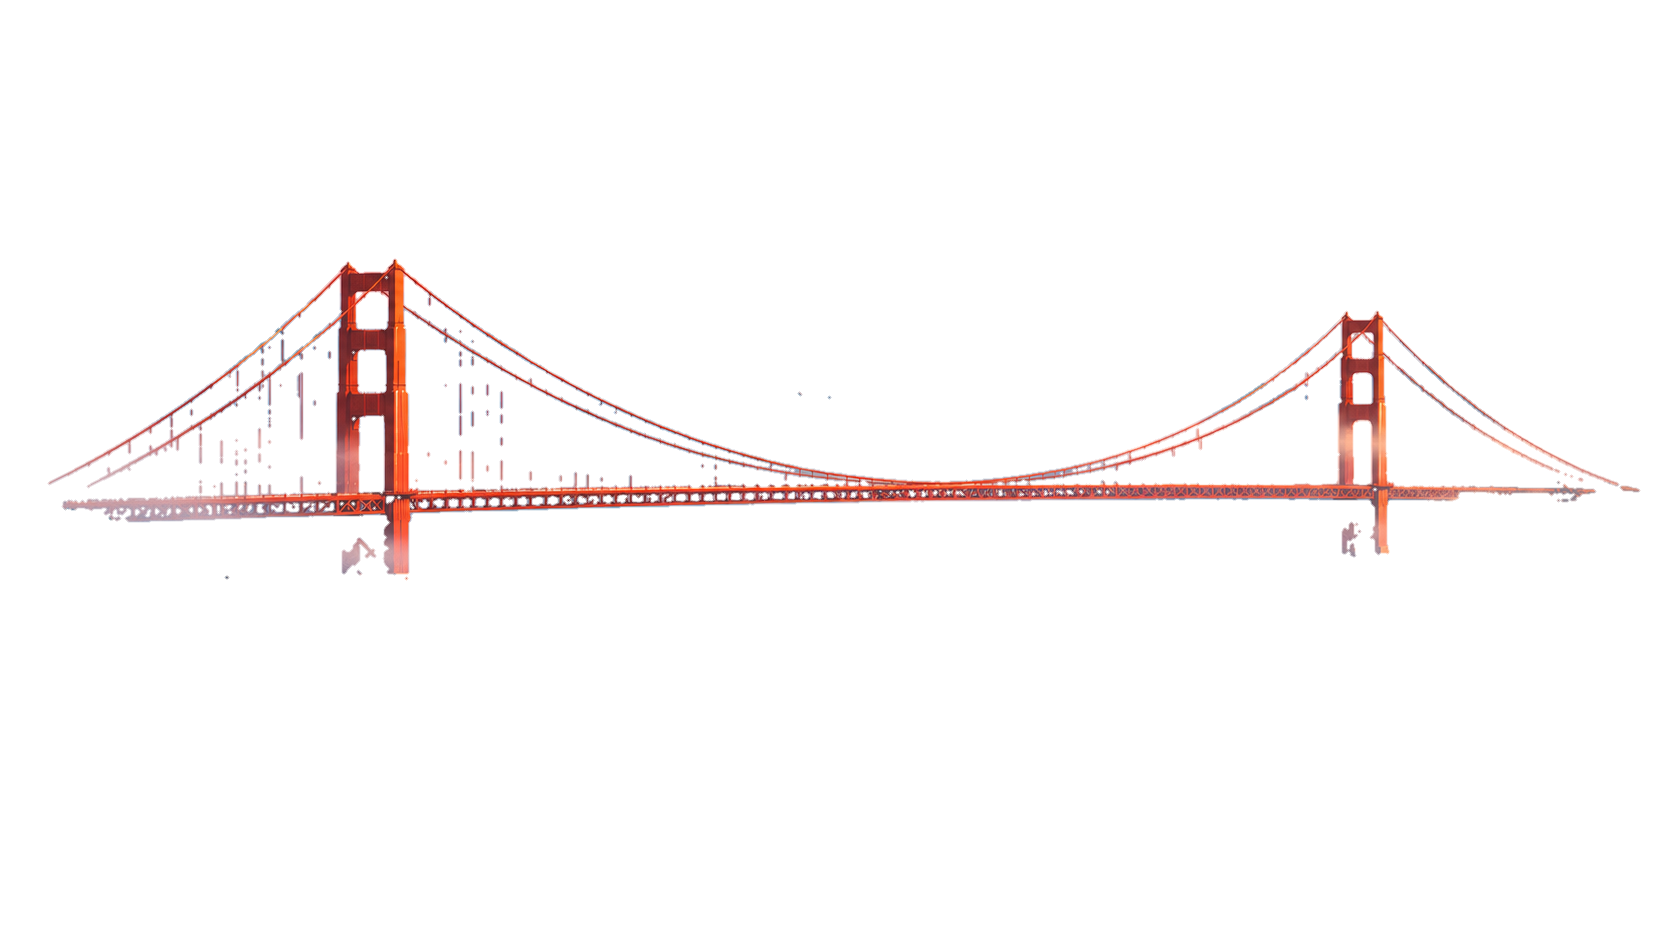
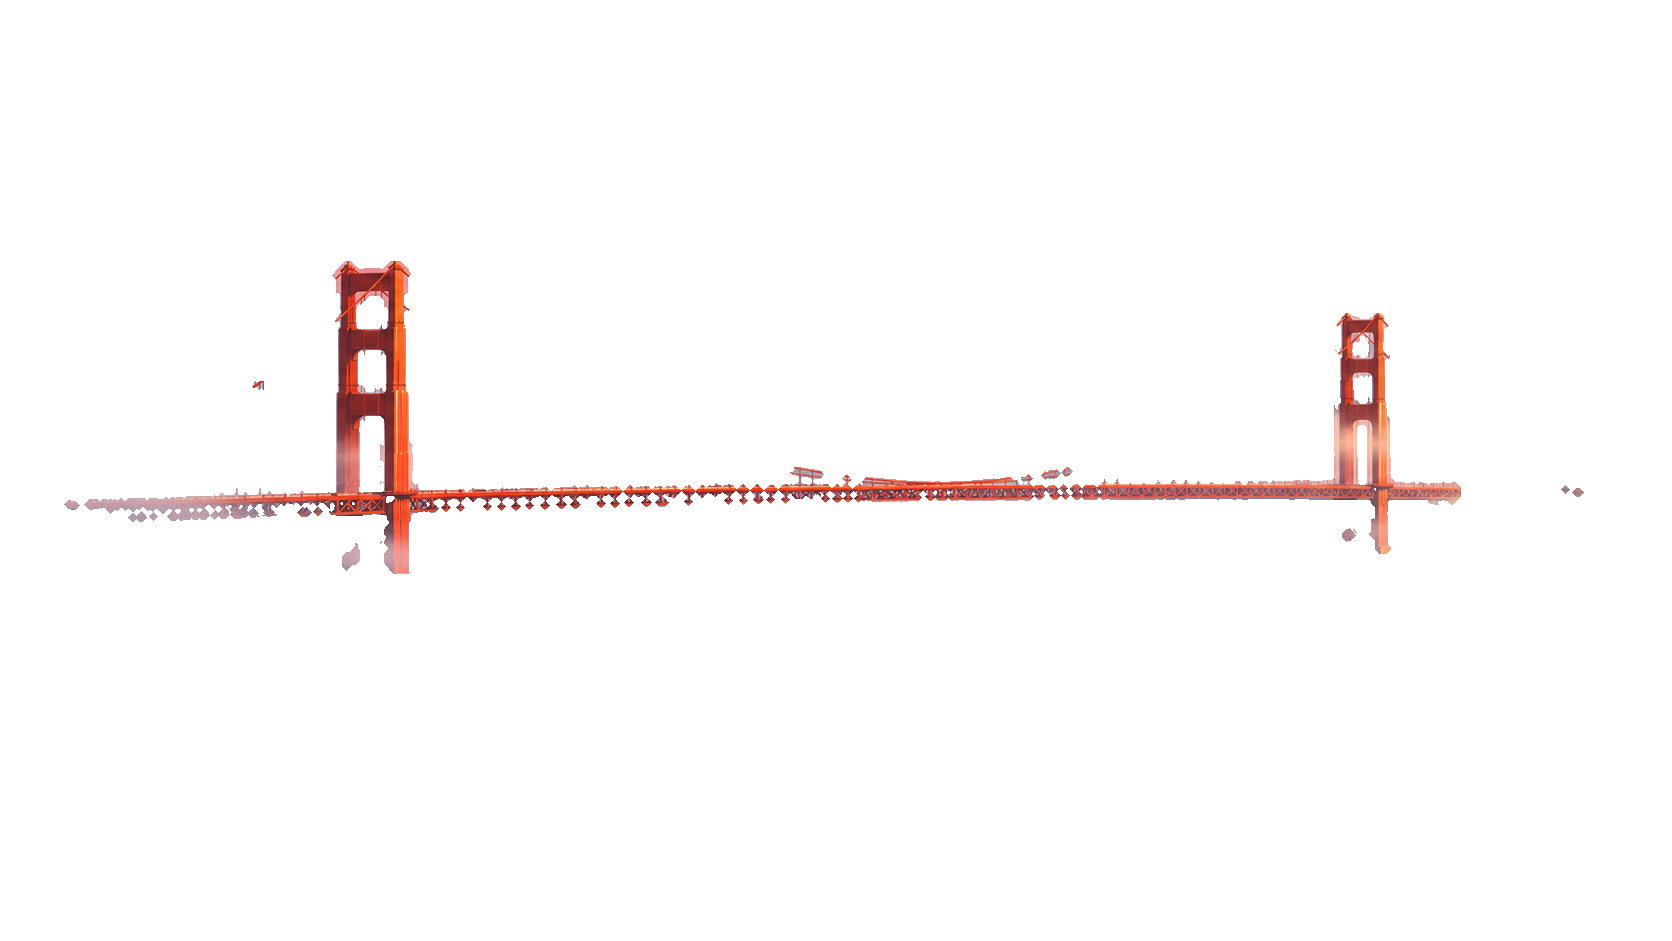
hero + chapters (local only, not pushed)
- Hero cut-out redone: tower-only occluder with solid steel (shaded faces and crossbeams included, fog/sky excluded) and no cables slicing the letters, built for golden/day/night with Blender numpy; originals kept as bridge_fg_full*; see-through text copy retired (poster-lab v=21)
- Night: birds drawn in pale moonlit silver (were invisible), ferry wake a faint cool trail (was pale blobs)
- Cloud pass between hero and chapters removed (owner: 'take out the frost')
- Films and living loops cache-busted (?v=13) so edits always show

diff --git a/index.html b/index.html
@@ -5261,7 +5261,7 @@ html:not([data-theme="dark"]) .dna2-tile:hover .dna2-tile-nm,
       .hero .hero-building:hover svg{transform:translate(2px,-2px)}
       @media (max-width:767px){ .hero .hero-building{top:16vh;font-size:10px;letter-spacing:.08em} }
     </style>
-    <iframe class="hero-city" id="heroCity" src="poster-lab.html?embed&amp;v=20" title="Animated painting of the Golden Gate at golden hour" aria-hidden="true"
+    <iframe class="hero-city" id="heroCity" src="poster-lab.html?embed&amp;v=21" title="Animated painting of the Golden Gate at golden hour" aria-hidden="true"
             tabindex="-1" loading="eager"></iframe>
     <style>
       .hero .hero-city{position:absolute;inset:0;width:100%;height:100%;border:0;pointer-events:none;z-index:0;background:#0A1430}
@@ -5757,16 +5757,23 @@ html:not([data-theme="dark"]) .dna2-tile:hover .dna2-tile-nm,
   <section id="chapters" class="chp-wrap" aria-labelledby="chpTitle">
     <button type="button" class="chp-pause" id="motionToggle" aria-pressed="false">Pause motion</button>
     <h2 class="sr-only" id="chpTitle">Selected work</h2>
+    <!-- (12 Nov, owner) cloud pass from the hero into the first chapter: the bank rises over the hero's foot, you pass through,
+         it parts sideways onto the scene. Short, no text. Tinted to the time of day. -->
+    <div class="chp-clouds" aria-hidden="true">
+      <img class="cl cl-a" src="city/layers/vc/cloud_a.webp" alt="" decoding="async">
+      <img class="cl cl-b" src="city/layers/vc/cloud_a.webp" alt="" decoding="async">
+      <img class="cl cl-c" src="city/layers/vc/cloud_a.webp" alt="" decoding="async">
+    </div>
   <section class="chp" id="chVC" data-sky="40,30,840,165" aria-labelledby="chVCt">
     <div class="chp-pin">
       <div class="chp-stage" aria-hidden="true">
         <img class="chp-plate" src="city/layers/chapters/vc-office.webp" data-night="city/layers/chapters/vc-office-night.webp" data-day="city/layers/chapters/vc-office-day.webp" alt="">
         <!-- the living golden-hour scene: a locked-camera Higgsfield (Seedance 2.5) loop of this painting, crossfaded to loop seamlessly;
              Seedance reframed it a few px, so it carries its own screen quad -->
-        <video class="chp-loop" src="city/layers/chapters/loops/vc-office.mp4" poster="city/layers/chapters/vc-office.webp" data-quad="1090,393 1476,372 1420,683 1029,651" muted loop playsinline preload="auto"></video>
+        <video class="chp-loop" src="city/layers/chapters/loops/vc-office.mp4?v=13" poster="city/layers/chapters/vc-office.webp" data-quad="1090,393 1476,372 1420,683 1029,651" muted loop playsinline preload="auto"></video>
         <canvas class="chp-birds" width="1672" height="941"></canvas>
         <div class="chp-bay"></div>
-        <div class="chp-screen" data-quad="1104,411 1496,388 1438,705 1047,673"><iframe src="films/vc-launch.html" title="Verified Call launch film" loading="lazy" tabindex="-1"></iframe></div>
+        <div class="chp-screen" data-quad="1104,411 1496,388 1438,705 1047,673"><iframe src="films/vc-launch.html?v=13" title="Verified Call launch film" loading="lazy" tabindex="-1"></iframe></div>
         <div class="chp-steam"><i></i><i></i><i></i></div>
         <div class="chp-lamp"></div>
       </div>
@@ -5784,9 +5791,9 @@ html:not([data-theme="dark"]) .dna2-tile:hover .dna2-tile-nm,
     <div class="chp-pin">
       <div class="chp-stage" aria-hidden="true">
         <img class="chp-plate" src="city/layers/chapters/et-live-kitchen.webp" data-night="city/layers/chapters/et-live-kitchen-night.webp" data-day="city/layers/chapters/et-live-kitchen-day.webp" alt="">
-        <video class="chp-loop" src="city/layers/chapters/loops/et-live.mp4" poster="city/layers/chapters/et-live-kitchen.webp" data-quad="741,418 1073,403 1114,629 778,669" muted loop playsinline preload="auto"></video>
+        <video class="chp-loop" src="city/layers/chapters/loops/et-live.mp4?v=13" poster="city/layers/chapters/et-live-kitchen.webp" data-quad="741,418 1073,403 1114,629 778,669" muted loop playsinline preload="auto"></video>
         <canvas class="chp-birds" width="1672" height="941"></canvas>
-        <div class="chp-screen" data-quad="754,433 1089,417 1132,651 791,692"><iframe src="films/et-live-launch.html" title="EverTutor Live launch film" loading="lazy" tabindex="-1"></iframe></div>
+        <div class="chp-screen" data-quad="754,433 1089,417 1132,651 791,692"><iframe src="films/et-live-launch.html?v=13" title="EverTutor Live launch film" loading="lazy" tabindex="-1"></iframe></div>
       </div>
       <div class="chp-copy">
         <p class="chp-role">Sole product designer · EverTutor</p>
@@ -5803,7 +5810,7 @@ html:not([data-theme="dark"]) .dna2-tile:hover .dna2-tile-nm,
       <div class="chp-stage" aria-hidden="true">
         <img class="chp-plate" src="city/layers/chapters/et-studio-classroom.webp" data-night="city/layers/chapters/et-studio-classroom-night.webp" data-day="city/layers/chapters/et-studio-classroom-day.webp" alt="">
         <canvas class="chp-birds" width="1672" height="941"></canvas>
-        <div class="chp-screen" data-quad="793,372 1241,348 1224,654 771,639"><iframe src="films/et-studio-launch.html" title="EverTutor Studio launch film" loading="lazy" tabindex="-1"></iframe></div>
+        <div class="chp-screen" data-quad="793,372 1241,348 1224,654 771,639"><iframe src="films/et-studio-launch.html?v=13" title="EverTutor Studio launch film" loading="lazy" tabindex="-1"></iframe></div>
       </div>
       <div class="chp-copy">
         <p class="chp-role">Sole product designer · EverTutor</p>
@@ -5820,7 +5827,7 @@ html:not([data-theme="dark"]) .dna2-tile:hover .dna2-tile-nm,
       <div class="chp-stage" aria-hidden="true">
         <img class="chp-plate" src="city/layers/chapters/stressie-park.webp" data-night="city/layers/chapters/stressie-park-night.webp" data-day="city/layers/chapters/stressie-park-day.webp" alt="">
         <canvas class="chp-birds" width="1672" height="941"></canvas>
-        <div class="chp-screen" style="width:900px;height:1950px;border-radius:118px" data-quad="860,146 1165,146 1165,795 860,795"><iframe src="films/stressie-launch.html" title="Stressie launch film" loading="lazy" tabindex="-1"></iframe></div>
+        <div class="chp-screen" style="width:900px;height:1950px;border-radius:118px" data-quad="860,146 1165,146 1165,795 860,795"><iframe src="films/stressie-launch.html?v=13" title="Stressie launch film" loading="lazy" tabindex="-1"></iframe></div>
       </div>
       <div class="chp-copy">
         <p class="chp-role">Founding designer · Figma to SwiftUI</p>
@@ -5837,7 +5844,7 @@ html:not([data-theme="dark"]) .dna2-tile:hover .dna2-tile-nm,
       <div class="chp-stage" aria-hidden="true">
         <img class="chp-plate" src="city/layers/chapters/dearly-alamo.webp" data-night="city/layers/chapters/dearly-alamo-night.webp" data-day="city/layers/chapters/dearly-alamo-day.webp" alt="">
         <canvas class="chp-birds" width="1672" height="941"></canvas>
-        <div class="chp-screen" style="width:1600px;height:1200px;border-radius:24px" data-quad="715,458 1040,451 1103,712 775,739"><iframe src="films/dearly-launch.html" title="Dearly launch film" loading="lazy" tabindex="-1"></iframe></div>
+        <div class="chp-screen" style="width:1600px;height:1200px;border-radius:24px" data-quad="715,458 1040,451 1103,712 775,739"><iframe src="films/dearly-launch.html?v=13" title="Dearly launch film" loading="lazy" tabindex="-1"></iframe></div>
       </div>
       <div class="chp-copy">
         <p class="chp-role">Solo build · 48 hours</p>
@@ -11158,5 +11165,39 @@ html.motion-paused footer.ft .ft-cloud,html.motion-paused footer.ft .ft-shimmer{
 }
 </style>
 <style>footer.ft .ft-cloud{display:none!important}   /* (owner, 12 Nov) the borrowed day-cloud image read as grey smudges on the night painting; its painted fog stays */</style>
+<style>
+/* hero → chapters cloud pass */
+#chapters{overflow-x:clip}
+#chapters .chp-clouds{position:absolute;left:0;right:0;top:-46vh;height:130vh;z-index:6;pointer-events:none;
+  filter:brightness(calc(1 - .18 * var(--cl-night,0))) saturate(calc(1 - .8 * var(--cl-night,0))) hue-rotate(calc(var(--cl-night,0) * 200deg))}   /* night: pale moonlit silver, never a grey smog */
+#chapters .chp-clouds .cl{position:absolute;left:50%;max-width:none;will-change:transform,opacity}
+#chapters .cl-a{top:0;width:max(170vw,1600px)}
+#chapters .cl-b{top:18vh;width:max(160vw,1500px)}
+#chapters .cl-c{top:30vh;width:max(190vw,1800px)}
+@media (prefers-reduced-motion:reduce){#chapters .chp-clouds{display:none}}
+</style>
+<script>
+(function () {
+  var wrap = document.getElementById('chapters'), box = wrap && wrap.querySelector('.chp-clouds'); if (!box) return;
+  if (matchMedia('(prefers-reduced-motion: reduce)').matches) return;
+  var L = box.querySelectorAll('.cl'), first = wrap.querySelector('section.chp');
+  function cl(v) { return v < 0 ? 0 : v > 1 ? 1 : v; }
+  function frame() {
+    var vh = innerHeight, vw = innerWidth, top = wrap.getBoundingClientRect().top;
+    // p: 0 while the chapters are a screen away, 1 once their top has scrolled a little past the viewport top
+    var p = cl((vh - top) / vh), e = p * p * (3 - 2 * p);   // 1 exactly when the chapter reaches the top
+    var part = cl((p - .5) / .45), pe = part * part * (3 - 2 * part);   // parted before the chapter settles
+    if (first) box.style.setProperty('--cl-night', getComputedStyle(first).getPropertyValue('--night') || 0);
+    L[0].style.transform = 'translate(calc(-50% - ' + (pe * vw * .7).toFixed(1) + 'px),' + (-e * vh * .12).toFixed(1) + 'px) scale(' + (1 + pe * .35).toFixed(3) + ')';
+    L[1].style.transform = 'translate(calc(-50% + ' + (pe * vw * .75).toFixed(1) + 'px),' + (-e * vh * .08).toFixed(1) + 'px) scaleX(-1) scale(' + (1 + pe * .35).toFixed(3) + ')';
+    L[2].style.transform = 'translate(-50%,' + (pe * vh * .55).toFixed(1) + 'px) scale(' + (1.1 + pe * .5).toFixed(3) + ')';
+    var a = String(Math.max(0, 1 - pe * 1.15)); for (var i = 0; i < 3; i++) L[i].style.opacity = a;
+    box.style.visibility = pe >= .999 ? 'hidden' : '';
+  }
+  var raf = 0; addEventListener('scroll', function () { if (!raf) raf = requestAnimationFrame(function () { raf = 0; frame(); }); }, { passive: true });
+  addEventListener('resize', frame); frame(); setTimeout(frame, 1200);
+})();
+</script>
+<style>#chapters .chp-clouds{display:none!important}   /* (owner, 12 Nov) "take out the frost": no cloud veil over the work; scenes meet cleanly */</style>
 </body>
 </html>

diff --git a/poster-lab.html b/poster-lab.html
@@ -667,11 +667,11 @@ const FS_FX = /* glsl */`
         float fade = exp(-u / 260.0);
         float foam = smoothstep(w, 0.0, abs(abs(v) - arm)) * step(thr, n);
         float inner = smoothstep(w, 0.0, abs(abs(v) - arm * 0.5)) * step(thr + 0.05, fbm(vec2(u * 0.06 - uTime * 1.4, v * 0.4 + 5.0)));
-        aL += (foam + 0.7 * inner) * fade * uFerryA;
+        aL += (foam + 0.7 * inner) * fade * uFerryA * mix(0.35, 1.0, uDayK);   // (12 Nov) a faint cool trail at night, not pale blobs
       }
       vec2 q = P - uBow * vec2(1920.0, 1080.0);
       float ub = dot(q, dir), vb = dot(q, vec2(-dir.y, dir.x));
-      aL += 0.8 * smoothstep(6.0, 0.0, length(vec2(ub + 2.0, 2.0 * vb)) - 2.0) * uFerryA;   // bow crescent
+      aL += 0.8 * smoothstep(6.0, 0.0, length(vec2(ub + 2.0, 2.0 * vb)) - 2.0) * uFerryA * mix(0.35, 1.0, uDayK);   // bow crescent
     }
 
     vec3 col = mix(RING_LIGHT, uSkyHor, 0.2) * mix(0.4, 1.0, uDayK);
@@ -729,8 +729,9 @@ const FS_GULLS = /* glsl */`
       a = max(a, smoothstep(0.10, 0.04, d - (1.0 - p.x) * 0.03));
     }
     if (a < 0.003) discard;
-    vec3 col = mix(vec3(0.16, 0.18, 0.26), uSkyHor, 0.25);
-    gl_FragColor = vec4(col, a * mix(0.4, 0.9, uDayK));
+    // (12 Nov, owner: birds invisible in the dark) dark ink by day, pale moonlit silver at night, never fading out
+    vec3 col = mix(vec3(0.78, 0.80, 0.90), mix(vec3(0.16, 0.18, 0.26), uSkyHor, 0.25), uDayK);
+    gl_FragColor = vec4(col, a * 0.85);
   }`;
 
 /* ════════════════════════════════════════════════════════════════════════
@@ -1479,7 +1480,7 @@ function makeTextPass() {
   // (12 Nov, owner: "Hi" was cut out by the tower) a faint second copy of the text drawn OVER everything, so a letter behind a tower
   // still reads through it like glass; the towers stay visibly in front
   const ghostMat = mat.clone(); ghostMat.uniforms = { tText: { value: textTex }, uA: { value: 0.36 } };
-  const ghost = new THREE.Mesh(QUAD, ghostMat); ghost.frustumCulled = false; ghost.renderOrder = 9000; ghost.name = 'hero-text-ghost'; scene.add(ghost);
+  // (12 Nov) ghost retired: the cut-out is now tower-only with solid steel (no cables slicing the letters), so the text sits cleanly behind
   document.documentElement.classList.add('text-in-scene');
   document.fonts?.ready.then(() => { textKey = ''; });
   return { mesh, mat, ghostMat };
